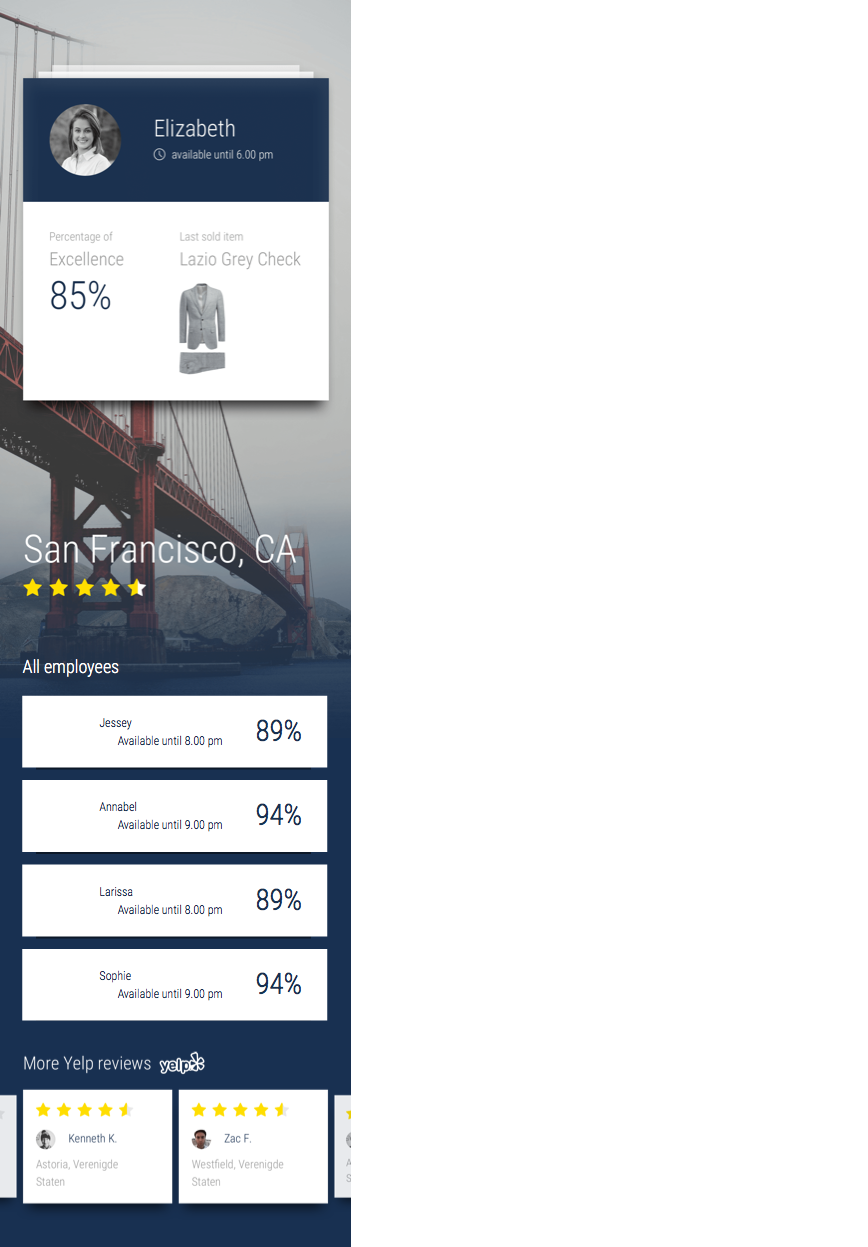
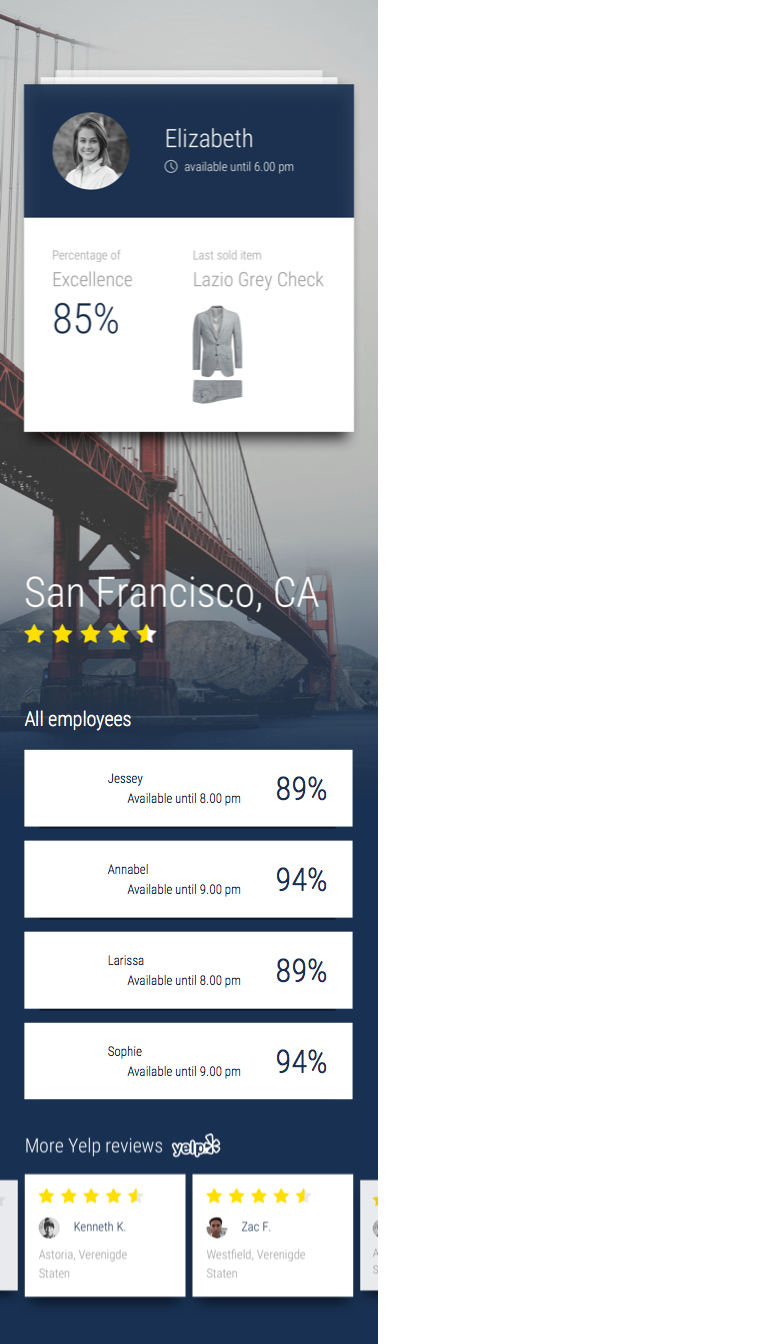
code clean up, import Roboto Condensed font

Changed region(s): [[0.0, 0.0, 0.4904, 1.0], [0.0613, 0.1828, 0.1533, 0.2743]]

diff --git a/suitsupply/input_label_v2.framer/framer/framer.generated.js b/suitsupply/input_label_v2.framer/framer/framer.generated.js
@@ -1,12 +1,12 @@
 // This is autogenerated by Framer
 
 
-if (!window.Framer) {window._bridge('runtime.error', {message:'[framer.js] Framer library missing or corrupt. Select File → Update Framer Library.'})}
-if (typeof(DeviceComponent) !== "undefined") {DeviceComponent.Devices["iphone-6-silver"].deviceImageJP2 = false};
-window.Framer.Defaults.DeviceView = {"deviceScale":"fit","selectedHand":"","deviceType":"apple-iphone-6s-silver","contentScale":1,"orientation":0};
-
-window.Framer.Defaults.DeviceComponent = {"deviceScale":"fit","selectedHand":"","deviceType":"apple-iphone-6s-silver","contentScale":1,"orientation":0};
-
+if (!window.Framer && window._bridge) {window._bridge('runtime.error', {message:'[framer.js] Framer library missing or corrupt. Select File → Update Framer Library.'})}
+if (DeviceComponent) {DeviceComponent.Devices["iphone-6-silver"].deviceImageJP2 = false};
+if (window.Framer) {window.Framer.Defaults.DeviceView = {"deviceScale":"fit","selectedHand":"","deviceType":"apple-iphone-6s-silver","contentScale":1,"orientation":0};
+}
+if (window.Framer) {window.Framer.Defaults.DeviceComponent = {"deviceScale":"fit","selectedHand":"","deviceType":"apple-iphone-6s-silver","contentScale":1,"orientation":0};
+}
 window.FramerStudioInfo = {"deviceImagesUrl":"\/_server\/resources\/DeviceImages","documentTitle":"input_label_v2.framer"};
 
 Framer.Device = new Framer.DeviceView();
